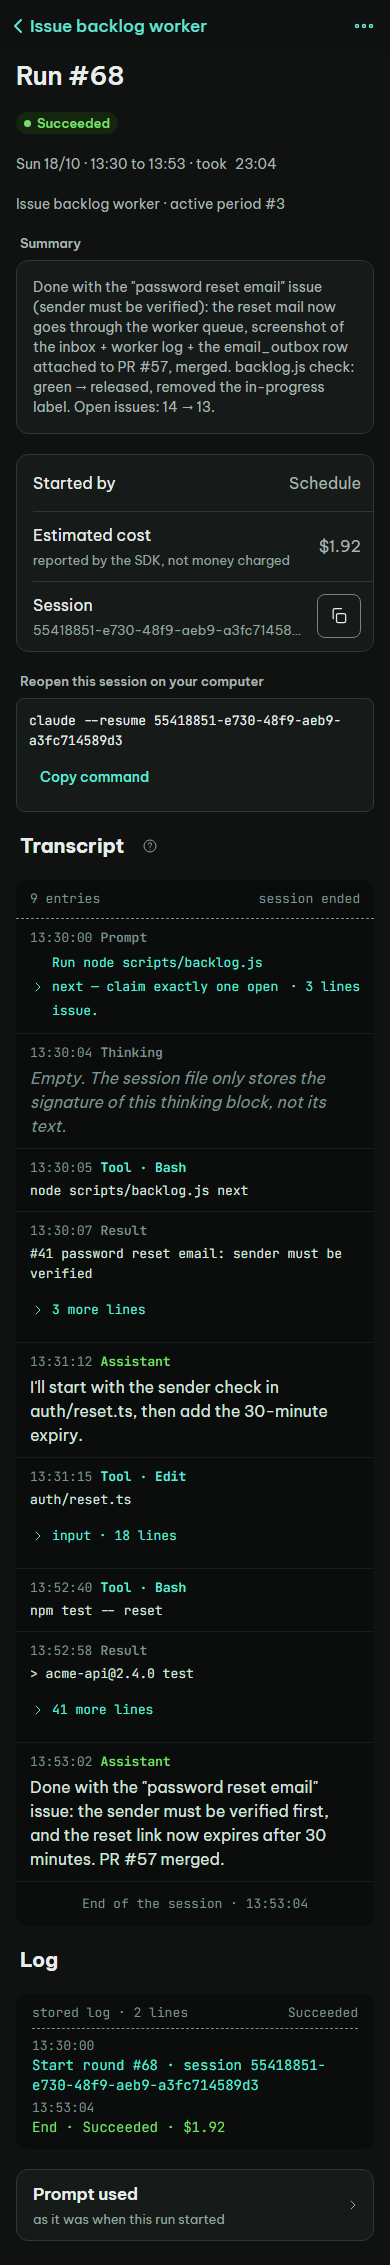
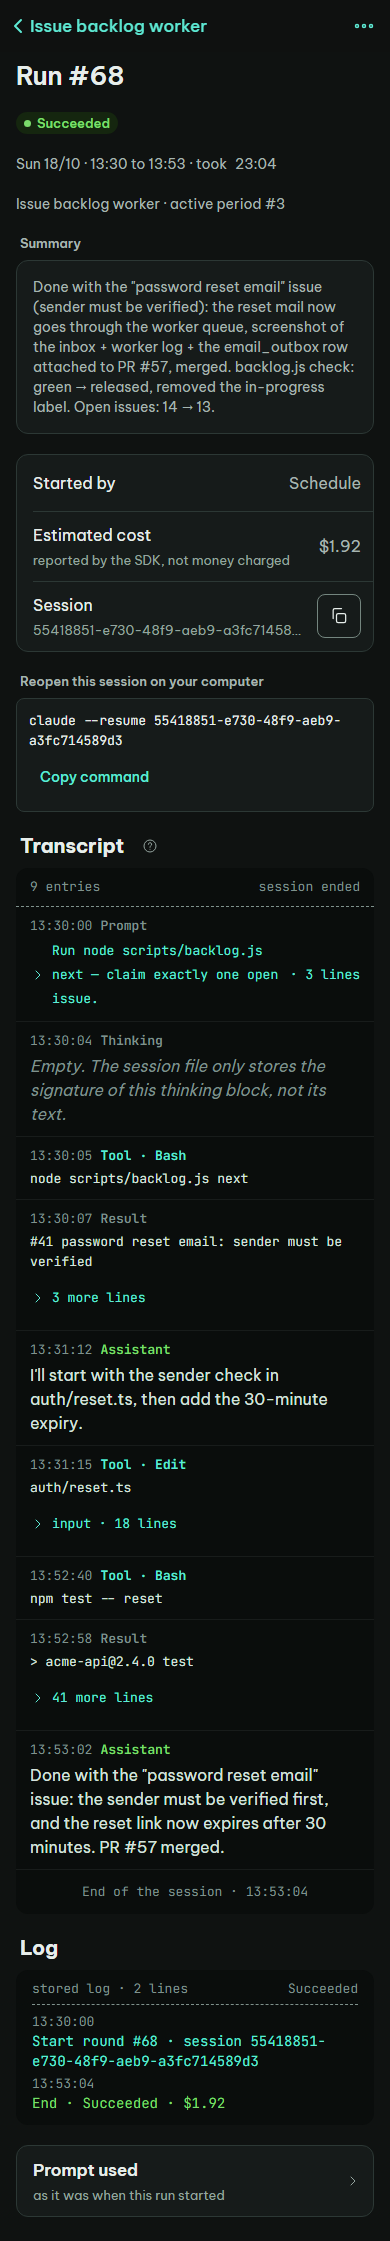
fix: a phone section head sits 8 px above what it heads, as the run board draws (U27 defect, epic 63) (#210)
* fix: a phone section head sits 8 px above what it heads, as the run board draws (U27 defect, epic 63)

* docs: record the phone section head rule in APPROVED.md (castraferrum#207)

---------

diff --git a/tests/visual/ds/layout.visual.ts b/tests/visual/ds/layout.visual.ts
@@ -415,3 +415,62 @@ test.describe("phone notes and cards after a captioned group (castraferrum#205)"
     }
   });
 });
+
+test.describe("phone section heads (castraferrum#207)", () => {
+  test.use(PHONE_VIEW);
+  const ctx = useServer();
+
+  /** Every visible `.section-head` of the page: its title, what it heads (the next box) and the gap between them. */
+  const heads = (page: Page) =>
+    page.evaluate(() =>
+      [...document.querySelectorAll(".section-head")]
+        .filter((h) => h.getClientRects().length)
+        .map((head) => {
+          const next = head.nextElementSibling!;
+          return {
+            name: `${(head.querySelector("h2")?.textContent ?? "").trim()} > ${next.className}${next.getAttribute("data-testid") ? `#${next.getAttribute("data-testid")}` : ""}`,
+            gap: Math.round(
+              next.getBoundingClientRect().top -
+                head.getBoundingClientRect().bottom,
+            ),
+          };
+        }),
+    );
+
+  test("a section head sits --space-2 above what it heads, as m-run-light.png and m-loop-light.png draw", async ({
+    page,
+  }) => {
+    await ctx.world(page);
+    const pilot = loopId("pilot", DS_DATA_JS);
+    // [page, every head it shows > what that head heads]
+    const pages: [string, string[]][] = [
+      [`/loops/${pilot}`, ["Recent runs > group-cap"]],
+      [
+        `/runs/${runId("pilot", 68, "")}`,
+        ["Transcript > note#run-transcript-note", "Log > log#run-log"],
+      ],
+      [
+        `/runs/${runId("pilot", 69, "")}`,
+        ["Transcript > note#run-transcript-note", "Log > log#run-log"],
+      ],
+      [
+        `/runs/${runId("debt", null, "14:00:00")}`,
+        ["Transcript > note#run-transcript-note", "Log > note"],
+      ],
+    ];
+    await page.goto(`${ctx.sp.baseUrl}/settings`);
+    const gap = await tokenPx(page, "--space-2");
+    for (const [path, names] of pages) {
+      await page.goto(`${ctx.sp.baseUrl}${path}`);
+      await expect(page.locator(".skeleton")).toHaveCount(0);
+      await expect
+        .poll(async () => (await heads(page)).map((h) => h.name), {
+          message: path,
+        })
+        .toEqual(names);
+      await page.evaluate(() => document.fonts.ready);
+      for (const h of await heads(page))
+        expect.soft(h.gap, `${path} "${h.name}": head to what it heads`).toBe(gap);
+    }
+  });
+});

diff --git a/design/ds/components.css b/design/ds/components.css
@@ -303,7 +303,7 @@ body {
      editor's repo note, schedule preview, mock agent note, Register a repo) is in the same section: --space-2 under the
      list (reference/m-form-light.png). */
   .page .group-cap { margin-bottom: calc(var(--space-2) - var(--space-5)); }
-  .section-head + .group-cap, .section-head + .group-cap + .group + .group-cap { margin-top: calc(var(--space-2) - var(--space-5)); }
+  .section-head + .group-cap + .group + .group-cap { margin-top: calc(var(--space-2) - var(--space-5)); }
   .page > .group-cap:first-child, .page > form:first-child > .group-cap:first-child { margin-top: var(--space-2); }
   .group-cap + .group + :is(.group-note, .note, .card, .btn) { margin-top: calc(var(--space-2) - var(--space-5)); }
 }
@@ -472,6 +472,9 @@ body {
 @media (max-width: 639.98px) {
   .section-head { gap: var(--space-1); padding: 0 var(--space-1); }
   .section-head h2 { font-weight: var(--fw-bold); }
+  /* A section head and what it heads are one section (reference/m-run-light.png, m-loop-light.png): whatever follows the
+     head (a caption, a note, a transcript, a log) sits --space-2 under it, not the page's --space-5. */
+  .page .section-head + * { margin-top: calc(var(--space-2) - var(--space-5)); }
   .help { width: var(--size-touch); height: var(--size-touch); margin: calc(-1 * var(--space-2)) 0; }
   .help::after { content: none; }
 }

diff --git a/design/APPROVED.md b/design/APPROVED.md
@@ -412,3 +412,18 @@ draws a note or card under a group on a page (the folder sheet's hint keeps the 
 Re-shot with `npm run design:shots -- --design design/ds`, light and dark (10 shots), the phone editor states:
 `phone-form-new`, `phone-form-errors`, `phone-form-repo-pick`, `phone-form-sched-daily`, `phone-form-sched-weekly`.
 No other shot changed.
+
+## Agent correction under the owner's rule of 2026-10-23 - phone section heads, 2026-10-24
+
+Made by the agent of the U27 defect lane "section head spacing" (epic 63) under the rule in the epic's body (the owner
+is not asked). castraferrum#207: on the phone run page the Transcript and Log `.section-head`s sat the page's
+`--space-5` (20px) above what they head; `reference/m-run-light.png` draws `--space-2` (8px): the Transcript heading's
+line box ends at about y 775 and the transcript starts at y 783, the Log heading's ends at about y 1686 and the stored
+log starts at y 1694. A "Heads on the phone" rule in [`ds/SYSTEM.md`](ds/SYSTEM.md) ("Section head") covers every
+screen, with one selector in [`ds/components.css`](ds/components.css) ("Section head"): whatever follows a
+`.section-head` in the page sits `--space-2` under it. It replaces the `.section-head + .group-cap` part of the caption
+rule (the loop page's Recent runs head, unchanged at 8px). `tests/visual/ds/layout.visual.ts` measures every phone head
+in the real app: the loop page, and the run page succeeded, running and skipped (transcript note, log, log note).
+
+Re-shot with `npm run design:shots -- --design design/ds`, light and dark (6 shots): `phone-run-running`,
+`phone-run-succeeded`, `phone-run-transcript-running`. No other shot changed.

diff --git a/design/ds/SYSTEM.md b/design/ds/SYSTEM.md
@@ -370,6 +370,11 @@ Screens put kit components together in `web/features/`. Never add a class that i
 - **Use it** above a section: its title, a `?` toggletip (`.help`) that explains it, and a `.link` to more (All runs).
 - **Do not** put an explanation in a tooltip.
 - **Phone:** `.help` is 44px. **Desktop:** `.help` is 26px with a 44px hit area on coarse pointers.
+- **Heads on the phone.** A `.section-head` and what it heads are one section, as the boards draw it
+  (`reference/m-run-light.png`, `m-loop-light.png`): whatever follows the head on the page (the Recent runs caption,
+  the run page's transcript or its note, the log or its note) sits `--space-2` under it, while sections stay the page's
+  `--space-5` apart. One rule of `components.css` ("Section head") does this for every screen; a screen never sets the
+  margins of what a head heads.
 - **States:** hover, pressed, focus.
 - **Wrapper:** `Toggletip` of `web/ui/kit/Overlay.tsx` for `.help` (U14).
 
